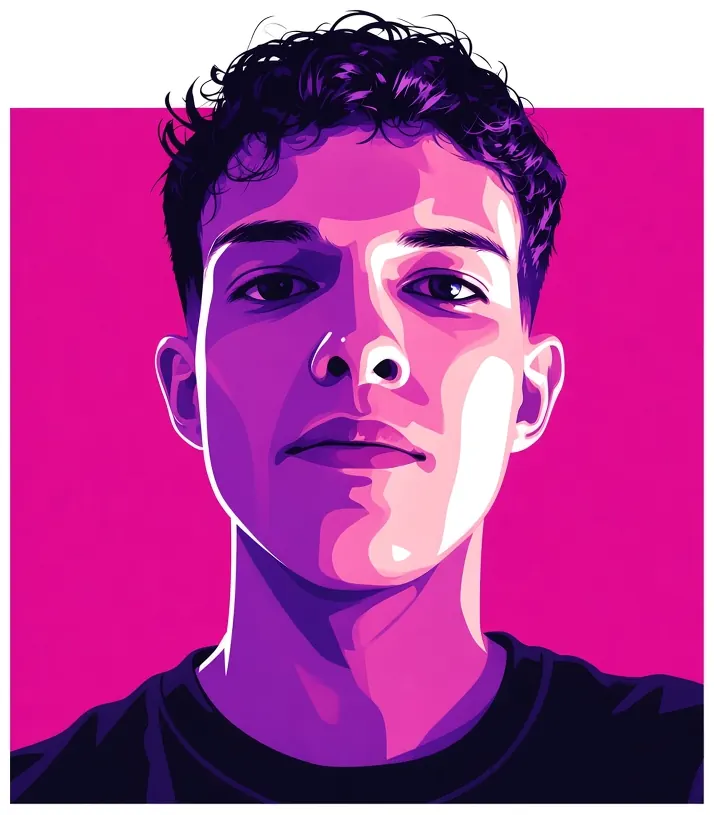
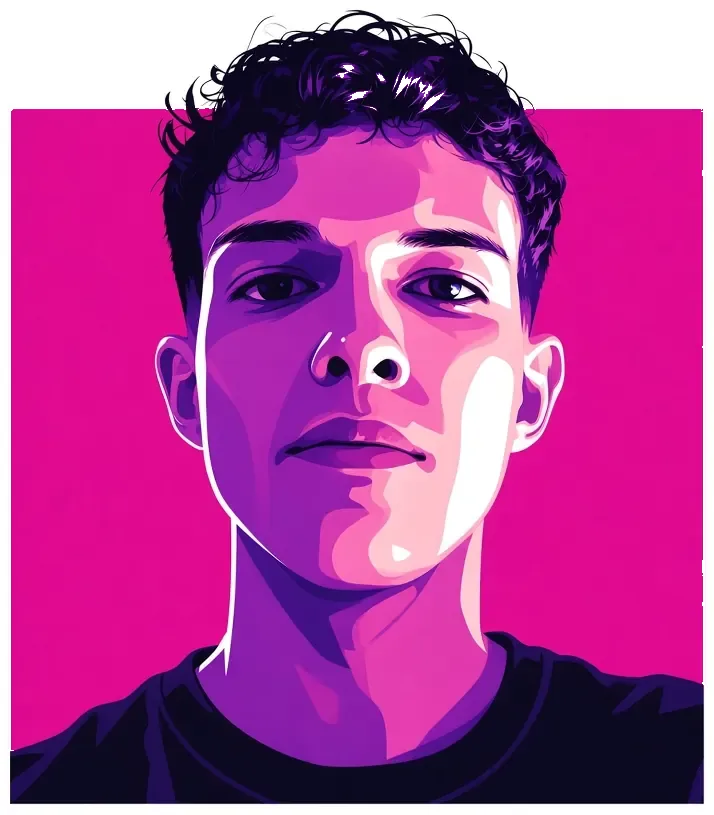
Add a black offset and round the illustration square
The magenta square and the block behind it share one corner radius, matched to the cards at desktop size. A mask rounds only the square, so the hair still breaks the top edge.

diff --git a/style.css b/style.css
@@ -193,16 +193,43 @@ main {
 }
 
 .hero-photo {
+  position: relative;
   width: clamp(16rem, 32vw, 24rem);
+  aspect-ratio: 714 / 815;
+}
+
+/* Square inside the illustration: x 12–701, y 109–749 of 714×815.
+   Corner radius is 15 source pixels, which is 8px (the card radius) at the
+   1440 layout and scales with the picture so it stays matched to the offset. */
+.hero-offset {
+  position: absolute;
+  z-index: 0;
+  left: 1.6807%;
+  top: 13.3742%;
+  width: 96.6387%;
+  height: 78.6503%;
+  background: #0e0a0e;
+  border-radius: 2.1739% / 2.3401%;
+  transform: translate(0.85rem, 0.85rem);
+}
+
+.hero-photo picture,
+.hero-photo img {
+  position: relative;
+  z-index: 1;
+  display: block;
+  width: 100%;
+  height: 100%;
 }
 
 .hero-photo img {
-  width: 100%;
-  height: auto;
-  border: 0;
-  border-radius: 0;
-  box-shadow: none;
-  background: transparent;
+  object-fit: fill;
+  -webkit-mask-image: url("./img/luan-mask.svg");
+  mask-image: url("./img/luan-mask.svg");
+  -webkit-mask-size: 100% 100%;
+  mask-size: 100% 100%;
+  -webkit-mask-repeat: no-repeat;
+  mask-repeat: no-repeat;
 }
 
 .hero-copy {
@@ -584,6 +611,10 @@ footer h2 {
 
   .hero-photo {
     width: min(100%, 18.5rem);
+  }
+
+  .hero-offset {
+    transform: translate(0.65rem, 0.65rem);
   }
 }
 

diff --git a/index.html b/index.html
@@ -51,6 +51,7 @@
     <main id="inicio">
         <section class="hero" aria-labelledby="hero-title">
             <div class="hero-photo">
+                <div class="hero-offset" aria-hidden="true"></div>
                 <picture>
                     <source srcset="./img/luan.webp" type="image/webp">
                     <img src="./img/luan.jpg" alt="Ilustração de Luan" width="714" height="815">
